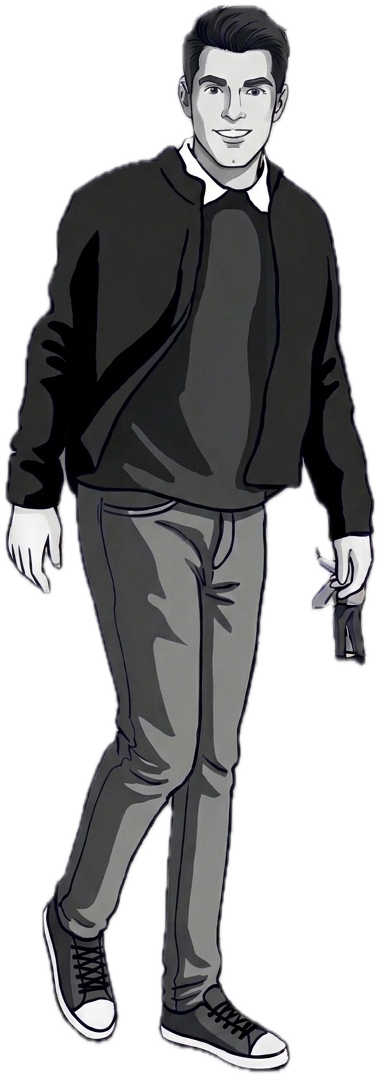
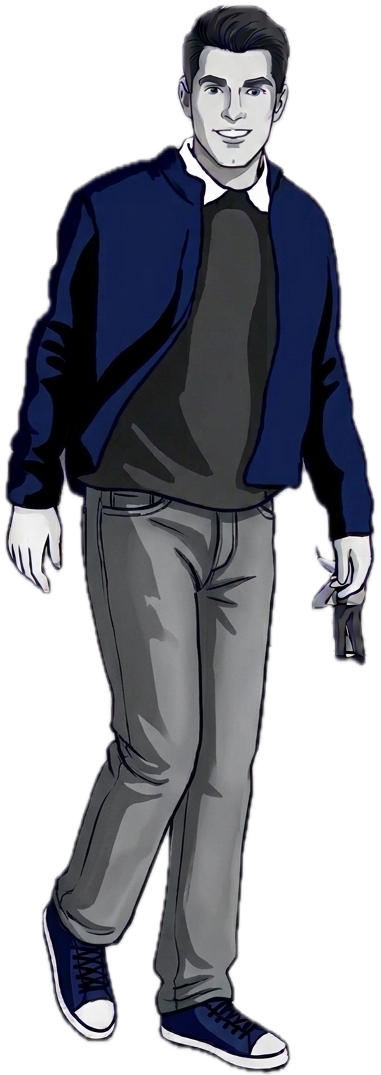
Track footer_reached event; navy-jacket footer figure

diff --git a/src/components/home/crowd.tsx b/src/components/home/crowd.tsx
@@ -1,5 +1,6 @@
 "use client";
 
+import { track as trackEvent } from "@vercel/analytics";
 import { useEffect, useRef, useState } from "react";
 
 // 15×7 sheet of 105 people built from Open Peeps parts (Pablo Stanley, CC0, openpeeps.com),
@@ -196,6 +197,16 @@ export default function Crowd({ name }: { name: string }) {
 			{ rootMargin: "600px" },
 		);
 		io.observe(el);
+		// The preload observer above fires 600px early, so "reached the footer" gets its own: half the crowd on screen, once per visit.
+		const reached = new IntersectionObserver(
+			([entry]) => {
+				if (!entry.isIntersecting) return;
+				trackEvent("footer_reached");
+				reached.disconnect();
+			},
+			{ threshold: 0.5 },
+		);
+		reached.observe(el);
 		const ro = new ResizeObserver(layout);
 		ro.observe(el);
 		document.addEventListener("visibilitychange", sync);
@@ -205,6 +216,7 @@ export default function Crowd({ name }: { name: string }) {
 			alive = false;
 			cancelAnimationFrame(raf);
 			io.disconnect();
+			reached.disconnect();
 			ro.disconnect();
 			document.removeEventListener("visibilitychange", sync);
 			reduced.removeEventListener("change", sync);
